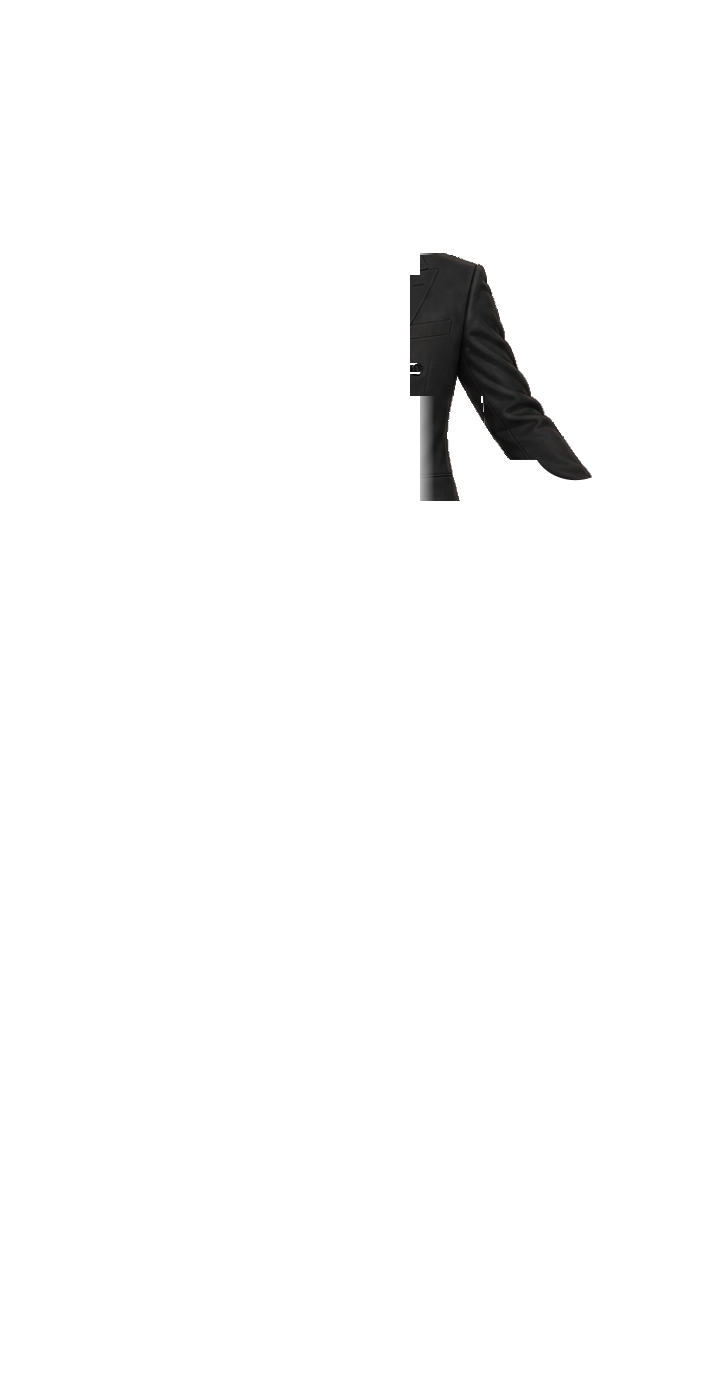
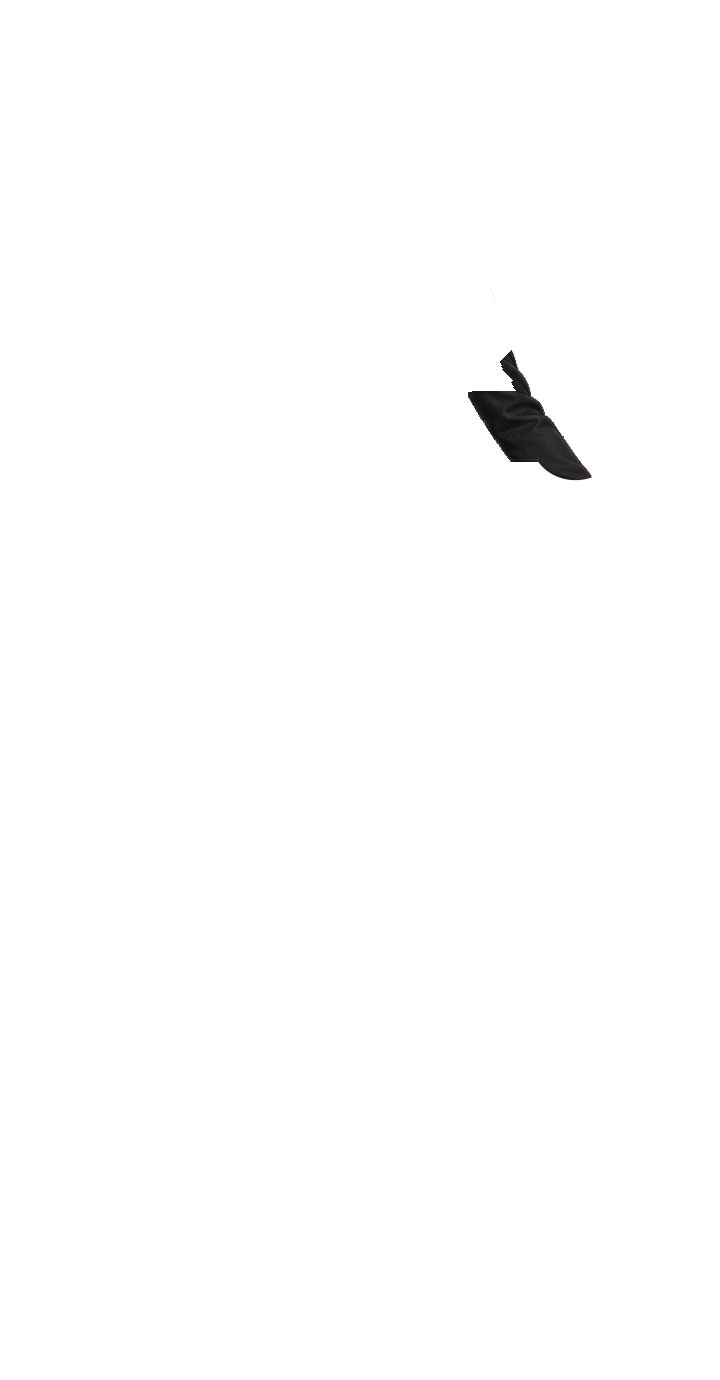
Rebuild groom arms on local joint hinges and trim sleeve underlap.
Replace full-stage transform-origin ArmChain for the groom with zero-size
shoulder/elbow/wrist wrappers (cqw/cqh), and cut oversized torso-duplicate
pixels from the upper-arm PNGs so rotation no longer exposes black strips.

Changed region(s): [[0.55, 0.1558, 0.7333, 0.3739]]

diff --git a/src/components/kiss-cam/kiss-cam-puppet.tsx b/src/components/kiss-cam/kiss-cam-puppet.tsx
@@ -193,6 +193,170 @@ function ArmChain({
   );
 }
 
+/** Stage-relative length → CSS container units (figure must set container-type: size). */
+function cqw(px: number): string {
+  return `calc(${px} / ${STAGE_W} * 100cqw)`;
+}
+function cqh(px: number): string {
+  return `calc(${px} / ${STAGE_H} * 100cqh)`;
+}
+
+/**
+ * Groom arm rig with LOCAL joint coordinates.
+ *
+ * Full-canvas PNGs keep their artwork, but each joint is a zero-size hinge in
+ * the parent joint's local space. Artwork is offset so the joint pixel sits at
+ * the hinge origin — children rotate about a true local origin.
+ *
+ *   ArmContainer
+ *     └── UpperArm @ shoulder (0,0)
+ *          └── Forearm @ elbow local
+ *               └── Hand @ wrist local
+ */
+function GroomLocalArmChain({
+  which,
+  base,
+  rig,
+  angles,
+  balloon,
+}: {
+  which: "left" | "right";
+  base: string;
+  rig: CharacterRigJoints;
+  angles: ArmAngles;
+  balloon?: { color: string };
+}) {
+  const shoulder = which === "left" ? rig.leftShoulder : rig.rightShoulder;
+  const elbow = which === "left" ? rig.leftElbow : rig.rightElbow;
+  const wrist = which === "left" ? rig.leftWrist : rig.rightWrist;
+
+  const elbowLocal = { x: elbow.x - shoulder.x, y: elbow.y - shoulder.y };
+  const wristLocal = { x: wrist.x - elbow.x, y: wrist.y - elbow.y };
+
+  const armClass = which === "left" ? "kiss-cam-arm-left" : "kiss-cam-arm-right";
+  const forearmClass = which === "left" ? "kiss-cam-forearm-left" : "kiss-cam-forearm-right";
+  const handClass = which === "left" ? "kiss-cam-hand-left" : "kiss-cam-hand-right";
+
+  const stageImgStyle: CSSProperties = {
+    position: "absolute",
+    width: cqw(STAGE_W),
+    height: cqh(STAGE_H),
+    maxWidth: "none",
+    pointerEvents: "none",
+    userSelect: "none",
+  };
+
+  return (
+    <div className="pointer-events-none absolute inset-0 overflow-visible" data-kiss-arm={which}>
+      <div
+        className={cn("kiss-cam-joint absolute overflow-visible", armClass)}
+        data-kiss-layer={which === "left" ? "leftUpperArm" : "rightUpperArm"}
+        data-kiss-joint="shoulder"
+        style={{
+          left: cqw(shoulder.x),
+          top: cqh(shoulder.y),
+          width: 0,
+          height: 0,
+          transformOrigin: "0 0",
+          transform: `rotate(${angles.upper}deg)`,
+        }}
+      >
+        {/* eslint-disable-next-line @next/next/no-img-element */}
+        <img
+          src={`${base}/${which}-upper-arm.png`}
+          alt=""
+          draggable={false}
+          className="select-none"
+          style={{
+            ...stageImgStyle,
+            left: cqw(-shoulder.x),
+            top: cqh(-shoulder.y),
+          }}
+        />
+
+        <div
+          className={cn("kiss-cam-joint absolute overflow-visible", forearmClass)}
+          data-kiss-layer={which === "left" ? "leftForearm" : "rightForearm"}
+          data-kiss-joint="elbow"
+          style={{
+            left: cqw(elbowLocal.x),
+            top: cqh(elbowLocal.y),
+            width: 0,
+            height: 0,
+            transformOrigin: "0 0",
+            transform: `rotate(${angles.forearm}deg)`,
+          }}
+        >
+          {/* eslint-disable-next-line @next/next/no-img-element */}
+          <img
+            src={`${base}/${which}-forearm.png`}
+            alt=""
+            draggable={false}
+            className="select-none"
+            style={{
+              ...stageImgStyle,
+              left: cqw(-elbow.x),
+              top: cqh(-elbow.y),
+            }}
+          />
+
+          <div
+            className={cn("kiss-cam-joint absolute overflow-visible", handClass)}
+            data-kiss-layer={which === "left" ? "leftHand" : "rightHand"}
+            data-kiss-joint="wrist"
+            data-hand-mode="separate"
+            style={{
+              left: cqw(wristLocal.x),
+              top: cqh(wristLocal.y),
+              width: 0,
+              height: 0,
+              transformOrigin: "0 0",
+              transform: `rotate(${angles.hand}deg)`,
+            }}
+          >
+            {/* eslint-disable-next-line @next/next/no-img-element */}
+            <img
+              src={`${base}/${which}-hand.png`}
+              alt=""
+              draggable={false}
+              className="select-none"
+              style={{
+                ...stageImgStyle,
+                left: cqw(-wrist.x),
+                top: cqh(-wrist.y),
+              }}
+            />
+            {balloon ? (
+              <div
+                className="kiss-cam-held-balloon pointer-events-none absolute"
+                style={{
+                  left: cqw(rig.handRest[which].x - wrist.x),
+                  top: cqh(rig.handRest[which].y - wrist.y),
+                  width: cqw(Math.round(STAGE_W * 0.14)),
+                  height: cqh(Math.round(STAGE_H * 0.17)),
+                  transform: "translate(-50%, -100%)",
+                  transformOrigin: "50% 100%",
+                }}
+              >
+                <svg viewBox="0 0 60 90" className="h-full w-full overflow-visible" aria-hidden>
+                  <line x1="30" y1="38" x2="30" y2="88" stroke="#9a8b82" strokeWidth="1.4" strokeLinecap="round" />
+                  <path
+                    d="M30 32 C50 12 56 -8 30 2 C4 -8 10 12 30 32Z"
+                    fill={balloon.color}
+                    stroke="#5a4a42"
+                    strokeWidth="1.5"
+                  />
+                  <ellipse cx="22" cy="12" rx="4" ry="6" fill="rgba(255,255,255,0.4)" />
+                </svg>
+              </div>
+            ) : null}
+          </div>
+        </div>
+      </div>
+    </div>
+  );
+}
+
 function buildDebug(
   side: "groom" | "bride",
   rig: CharacterRigJoints,
@@ -284,7 +448,7 @@ export function GroomFigure({ phase, className, rigDebug = false }: PuppetProps)
     >
       <div
         className={cn("relative w-auto overflow-visible", FIGURE_HEIGHT_CLASS)}
-        style={{ aspectRatio: `${STAGE_W} / ${STAGE_H}` }}
+        style={{ aspectRatio: `${STAGE_W} / ${STAGE_H}`, containerType: "size" }}
       >
         <div className="absolute inset-0 overflow-visible drop-shadow-[0_14px_28px_rgba(60,50,40,.22)]">
           {/* Legs planted — do not take body lean */}
@@ -305,8 +469,8 @@ export function GroomFigure({ phase, className, rigDebug = false }: PuppetProps)
             }}
           >
             <div className="kiss-cam-breathe absolute inset-0">
-              <ArmChain which="left" base={base} rig={rig} angles={resolved.left} balloon={{ color: "#f4b6c4" }} handMode="separate" />
-              <ArmChain which="right" base={base} rig={rig} angles={resolved.right} handMode="separate" />
+              <GroomLocalArmChain which="left" base={base} rig={rig} angles={resolved.left} balloon={{ color: "#f4b6c4" }} />
+              <GroomLocalArmChain which="right" base={base} rig={rig} angles={resolved.right} />
 
               <div className="absolute inset-0 z-[1]">
                 <LayerImg src={`${base}/torso.png`} />
